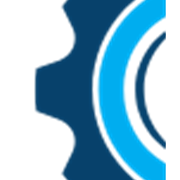
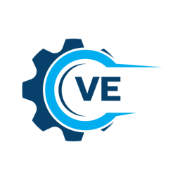
logochnages

diff --git a/app/layout.jsx b/app/layout.jsx
@@ -74,9 +74,10 @@ export const metadata = {
   icons: {
     icon: [
       { url: "/favicon.ico", sizes: "any" },
-      { url: "/favicon-48x48.png", type: "image/png", sizes: "48x48" },
-      { url: "/icon-192.png", type: "image/png", sizes: "192x192" },
-      { url: "/icon-512.png", type: "image/png", sizes: "512x512" },
+      { url: "/favicon-16x16.png", type: "image/png", sizes: "16x16" },
+      { url: "/favicon-32x32.png", type: "image/png", sizes: "32x32" },
+      { url: "/android-chrome-192x192.png", type: "image/png", sizes: "192x192" },
+      { url: "/android-chrome-512x512.png", type: "image/png", sizes: "512x512" },
     ],
     shortcut: ["/favicon.ico"],
     apple: [{ url: "/apple-touch-icon.png", sizes: "180x180", type: "image/png" }],

diff --git a/components/Footer.jsx b/components/Footer.jsx
@@ -128,6 +128,15 @@ export default function Footer() {
                 </a>
               </li>
               <li className="flex items-center gap-2.5">
+                <Phone className="h-4 w-4 text-primary-400 flex-shrink-0" />
+                <a
+                  href="tel:+919146924531"
+                  className="text-gray-400 hover:text-white transition-colors"
+                >
+                  +91 9146924531
+                </a>
+              </li>
+              <li className="flex items-center gap-2.5">
                 <Mail className="h-4 w-4 text-primary-400 flex-shrink-0" />
                 <a
                   href="mailto:vihanahartaengineers@gmail.com"

diff --git a/app/page.jsx b/app/page.jsx
@@ -27,7 +27,7 @@ const industrialBusinessSchema = {
     "https://www.vighanahartaengineers.in/services/s1.jpg",
     "https://www.vighanahartaengineers.in/services/s2.jpg",
   ],
-  logo: "https://www.vighanahartaengineers.in/services/logo.png",
+  logo: "https://www.vighanahartaengineers.in/logo/mainlogotransparent.png",
   description:
     "Industrial manufacturing company in Pune delivering precision manufacturing and fabrication services including CNC laser cutting, bending, welding, and conveyor solutions.",
   telephone: "+91-98509-52181",

diff --git a/components/Header.jsx b/components/Header.jsx
@@ -43,7 +43,7 @@ export default function Header() {
           <Link href="/" className="flex-shrink-0">
             <div className="relative h-11 w-56 sm:h-12 sm:w-64 md:h-14 md:w-72">
               <Image
-                src="/services/logo-cropped.png"
+                src="/logo/mainlogotransparent.svg"
                 alt="Vighanaharta Engineers"
                 fill
                 priority

diff --git a/app/clients/page.jsx b/app/clients/page.jsx
@@ -13,7 +13,7 @@ export const metadata = {
     description:
       "Our portfolio of successful projects and trusted clients across automotive, energy, and manufacturing industries.",
     url: "https://www.vighanahartaengineers.in/clients",
-    images: [{ url: "/services/logo.png" }],
+    images: [{ url: "/logo/mainlogotransparent.png" }],
   },
 };
 

diff --git a/app/about/page.jsx b/app/about/page.jsx
@@ -13,7 +13,7 @@ export const metadata = {
     description:
       "ISO 9001:2015 certified, established in 2017, with 5000 sq.ft. manufacturing facility in Pune.",
     url: "https://www.vighanahartaengineers.in/about",
-    images: [{ url: "/services/logo.png" }],
+    images: [{ url: "/logo/mainlogotransparent.png" }],
   },
 };
 
